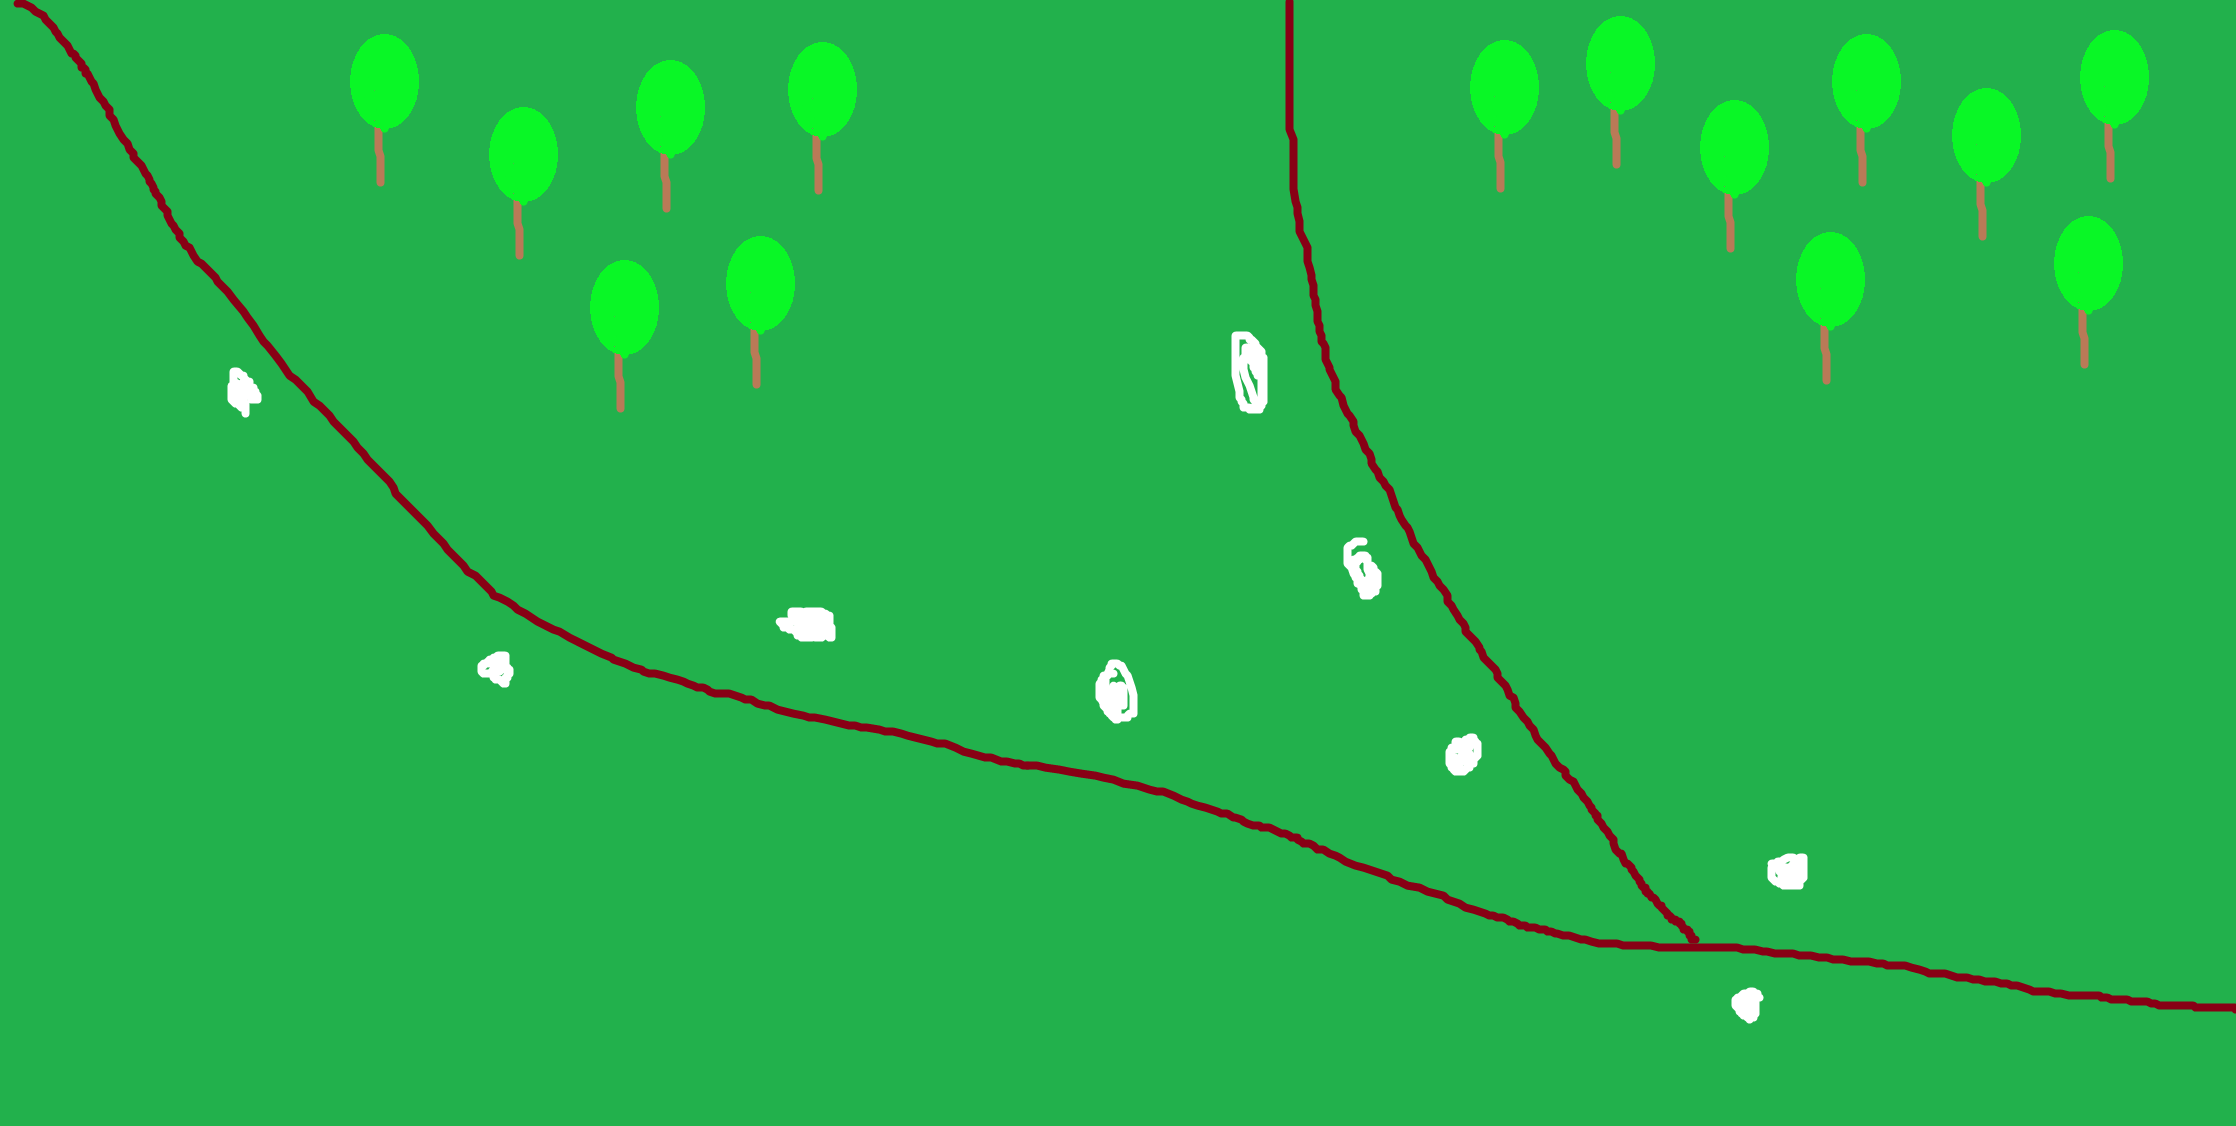
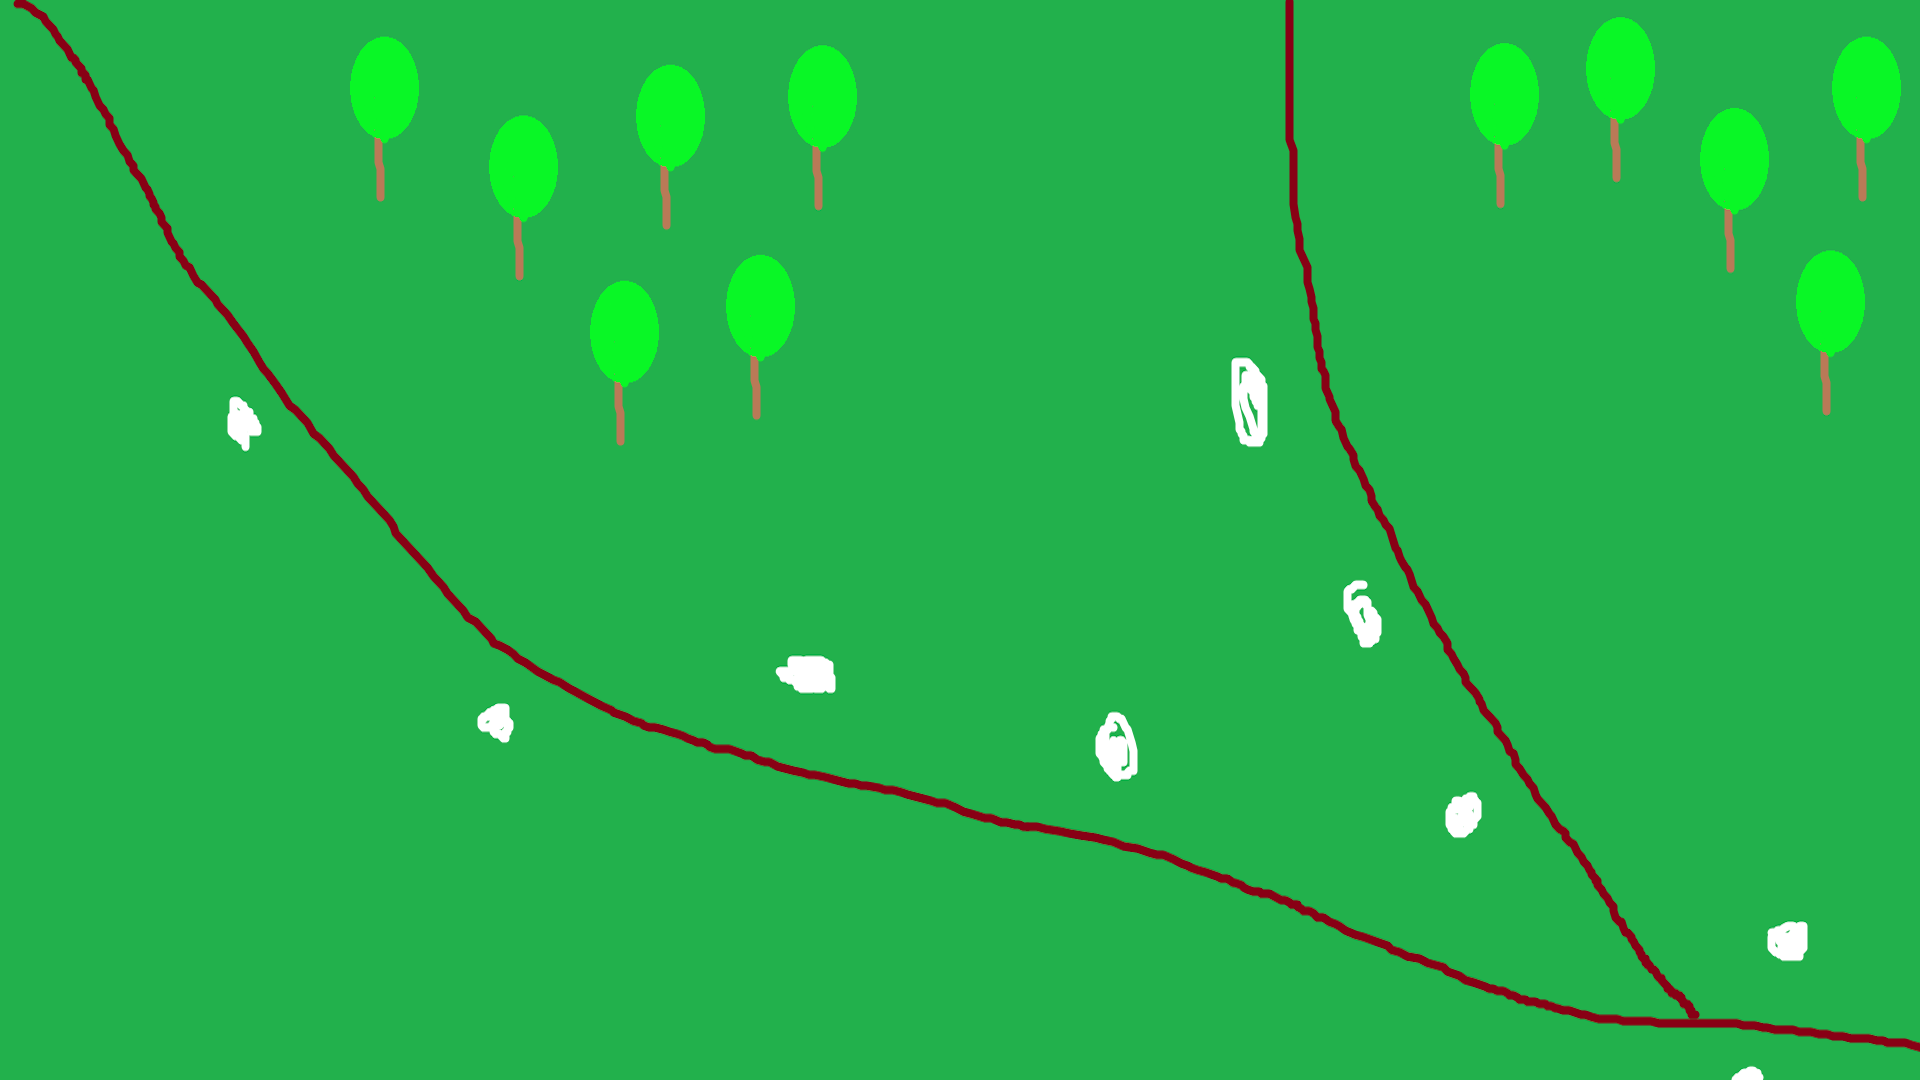
corrected for screen size issues on android version

diff --git a/core/src/com/mygdx/game/maps/IngameMenu.java b/core/src/com/mygdx/game/maps/IngameMenu.java
@@ -2,14 +2,12 @@ package com.mygdx.game.maps;
 
 import static com.mygdx.game.TDGame.SCREEN_HEIGHT;
 import static com.mygdx.game.TDGame.SCREEN_WIDTH;
+import static com.mygdx.game.TDGame.place;
 
 import com.badlogic.gdx.Gdx;
-import com.badlogic.gdx.Screen;
-import com.badlogic.gdx.graphics.Color;
 import com.badlogic.gdx.graphics.Texture;
 import com.badlogic.gdx.graphics.g2d.BitmapFont;
 import com.badlogic.gdx.graphics.g2d.SpriteBatch;
-import com.badlogic.gdx.scenes.scene2d.ui.Label;
 import com.mygdx.game.TDGame;
 import com.mygdx.game.screens.GameScreen;
 import com.mygdx.game.screens.buttons.Clickable;
@@ -25,8 +23,8 @@ public class IngameMenu {
      */
     public IngameMenu(GameScreen screen){
         this.screen=screen;
-        this.playerData=new PlayerDataContainer();
-        this.pauseButton=new PauseButton(new Coordinate(SCREEN_WIDTH,SCREEN_HEIGHT), TDGame.fetchTexture("buttons/resume_game"),TDGame.fetchTexture("buttons/pause_game"));
+        this.playerData=new PlayerDataContainer(place(0,SCREEN_HEIGHT));
+        this.pauseButton=new PauseButton(place(SCREEN_WIDTH,SCREEN_HEIGHT), TDGame.fetchTexture("buttons/resume_game"),TDGame.fetchTexture("buttons/pause_game"));
     }
     public void draw(SpriteBatch batch){
         playerData.draw(batch);
@@ -37,10 +35,15 @@ public class IngameMenu {
         int playerGold;
         Coordinate position;
         BitmapFont font=new BitmapFont();
+
+        public PlayerDataContainer(Coordinate position) {
+            this.position=position;
+        }
+
         public void draw(SpriteBatch batch) {
             updateData();
-            font.draw(batch,"HP: "+playerHP,20,SCREEN_HEIGHT-20);
-            font.draw(batch,"Gold: "+playerGold,20,SCREEN_HEIGHT-40);
+            font.draw(batch,"HP: "+playerHP, position.x()+20, position.y()-20);
+            font.draw(batch,"Gold: "+playerGold,position.x()+20, position.y()-40);
         }
         private void updateData(){
             int[] playerData = screen.getPlayerData();
@@ -53,7 +56,8 @@ public class IngameMenu {
         boolean gamePaused=false;
         public PauseButton(Coordinate position, Texture activeTexture, Texture inactiveTexture) {
             super(position, activeTexture, inactiveTexture);
-            this.position=position.subtract(new Coordinate(inactiveTexture.getWidth()+10,inactiveTexture.getHeight()+10));
+            Coordinate offset=new Coordinate(inactiveTexture.getWidth()+10,inactiveTexture.getHeight()+10);
+            this.position=position.subtract(offset);
         }
         @Override
         public void drawCheckClick(SpriteBatch batch){

diff --git a/core/src/com/mygdx/game/TDGame.java b/core/src/com/mygdx/game/TDGame.java
@@ -17,6 +17,7 @@ public class TDGame extends Game {
 	public static Coordinate SCREEN_TOP_RIGHT;
 	public static Coordinate SCREEN_BOT_LEFT;
 	public static Coordinate SCREEN_BOT_RIGHT;
+	public static float widthOffset=0f;
 
 	//call batch.draw to draw on the screen efficiently
 	public SpriteBatch batch;
@@ -31,13 +32,29 @@ public class TDGame extends Game {
 	public void create () {
 		batch=new SpriteBatch();
 
-		SCREEN_HEIGHT = Gdx.graphics.getHeight();
-		SCREEN_WIDTH = Gdx.graphics.getWidth();
-		SCREEN_CENTER = new Coordinate(SCREEN_WIDTH/2f,SCREEN_HEIGHT/2f);
-		SCREEN_TOP_LEFT = new Coordinate(0f,SCREEN_HEIGHT*1f);
-		SCREEN_TOP_RIGHT = new Coordinate(SCREEN_WIDTH*1f,SCREEN_HEIGHT*1f);
-		SCREEN_BOT_LEFT = new Coordinate(0f,0f);
-		SCREEN_BOT_RIGHT = new Coordinate(SCREEN_WIDTH*1f,0f);
+		int deviceHeight = Gdx.graphics.getHeight();
+		int deviceWidth = Gdx.graphics.getWidth();
+
+		SCREEN_HEIGHT = deviceHeight;//1000;
+		SCREEN_WIDTH = 1920;
+
+		if(deviceWidth>SCREEN_WIDTH){
+			widthOffset=deviceWidth-SCREEN_WIDTH;
+			widthOffset/=2;
+			//SCREEN_WIDTH+=widthOffset;
+		}
+
+		SCREEN_CENTER = place(SCREEN_WIDTH/2f,SCREEN_HEIGHT/2f);
+		SCREEN_TOP_LEFT = place(0f,SCREEN_HEIGHT*1f);
+		SCREEN_TOP_RIGHT = place(SCREEN_WIDTH*1f,SCREEN_HEIGHT*1f);
+		SCREEN_BOT_LEFT = place(0f,0f);
+		SCREEN_BOT_RIGHT = place(SCREEN_WIDTH*1f,0f);
+
+		System.out.println(
+				"SCREEN DATA:\ndeviceH: "+deviceHeight+" deviceW: "+deviceWidth+
+				"\nSCREEN_H: "+SCREEN_HEIGHT+" SCREEN_W: "+SCREEN_WIDTH+
+				"\nwidthOffset: "+widthOffset+
+				"\nBOT_L: "+SCREEN_BOT_LEFT);
 
 		System.out.println("PLAYER LOADED: "+player);
 
@@ -54,5 +71,12 @@ public class TDGame extends Game {
 	 */
 	public static Texture fetchTexture(String path){
 		return new Texture(path+TEXTURE_EXTENSION);
+	}
+
+	/**
+	 * Returns a Coordinate which is correctly placed relative to screen size.
+	 */
+	public static Coordinate place(float x,float y){
+		return new Coordinate(x+widthOffset, y);
 	}
 }

diff --git a/core/src/com/mygdx/game/maps/MapLoader.java b/core/src/com/mygdx/game/maps/MapLoader.java
@@ -4,6 +4,7 @@ import static com.mygdx.game.TDGame.SCREEN_BOT_RIGHT;
 import static com.mygdx.game.TDGame.SCREEN_HEIGHT;
 import static com.mygdx.game.TDGame.SCREEN_TOP_LEFT;
 import static com.mygdx.game.TDGame.TEXTURE_EXTENSION;
+import static com.mygdx.game.TDGame.place;
 
 import com.badlogic.gdx.graphics.Texture;
 import com.mygdx.game.TDGame;
@@ -38,11 +39,11 @@ public class MapLoader {
         //so we subtract the y coordinate so it's not flipped
         Path path=new Path(new Coordinate[]{
                 new Coordinate(SCREEN_TOP_LEFT.x(), SCREEN_TOP_LEFT.y()),
-                new Coordinate(543, SCREEN_HEIGHT-497),
-                new Coordinate(1122, SCREEN_HEIGHT-658),
-                new Coordinate(1691, SCREEN_HEIGHT-820),
-                new Coordinate(1919, SCREEN_HEIGHT-839),
-                new Coordinate(SCREEN_BOT_RIGHT.x(), SCREEN_BOT_RIGHT.y())
+                place(543, SCREEN_HEIGHT-497),
+                place(1122, SCREEN_HEIGHT-658),
+                place(1691, SCREEN_HEIGHT-820),
+                place(1919, SCREEN_HEIGHT-839),
+                place(SCREEN_BOT_RIGHT.x(), SCREEN_BOT_RIGHT.y())
         });
         System.out.println("PATH:"+path);
         return path;
@@ -81,9 +82,9 @@ public class MapLoader {
         System.out.println("TOWERSPACES: default");
         //Check loadPath for info on SCREEN_HEIGHT-x issue
         return new TowerSpace[]{
-            towerSpaceByCoordinate(new Coordinate(200,SCREEN_HEIGHT-300)),
-            towerSpaceByCoordinate(new Coordinate(400,SCREEN_HEIGHT-510)),
-            towerSpaceByCoordinate(new Coordinate(1000,SCREEN_HEIGHT-600))
+            towerSpaceByCoordinate(place(100,SCREEN_HEIGHT-300)),
+            towerSpaceByCoordinate(place(300,SCREEN_HEIGHT-510)),
+            towerSpaceByCoordinate(place(900,SCREEN_HEIGHT-600))
         };
     }
 }

diff --git a/core/src/com/mygdx/game/screens/GameScreen.java b/core/src/com/mygdx/game/screens/GameScreen.java
@@ -3,6 +3,7 @@ package com.mygdx.game.screens;
 import static com.mygdx.game.TDGame.*;
 
 import com.badlogic.gdx.Screen;
+import com.badlogic.gdx.graphics.Color;
 import com.badlogic.gdx.graphics.Texture;
 import com.badlogic.gdx.graphics.g2d.SpriteBatch;
 import com.badlogic.gdx.utils.ScreenUtils;
@@ -38,8 +39,8 @@ public class GameScreen implements Screen {
     @Override
     public void render(float delta) {
         //clear the screen
-        ScreenUtils.clear(1, 1, 1, 1);
-        int gameState = 0;
+        ScreenUtils.clear(0, 0, 0, 0);
+        int gameState = 0;//1 if player lost, 2 if player won, 0 otherwise
 
         //if the game is paused then we skip updating the map
         if(!paused) {
@@ -58,7 +59,6 @@ public class GameScreen implements Screen {
         }
         //drawing begins here
         game.batch.begin();
-
         //draw the background
         game.batch.draw(backgroundTexture, SCREEN_BOT_LEFT.x(), SCREEN_BOT_LEFT.y());
 
